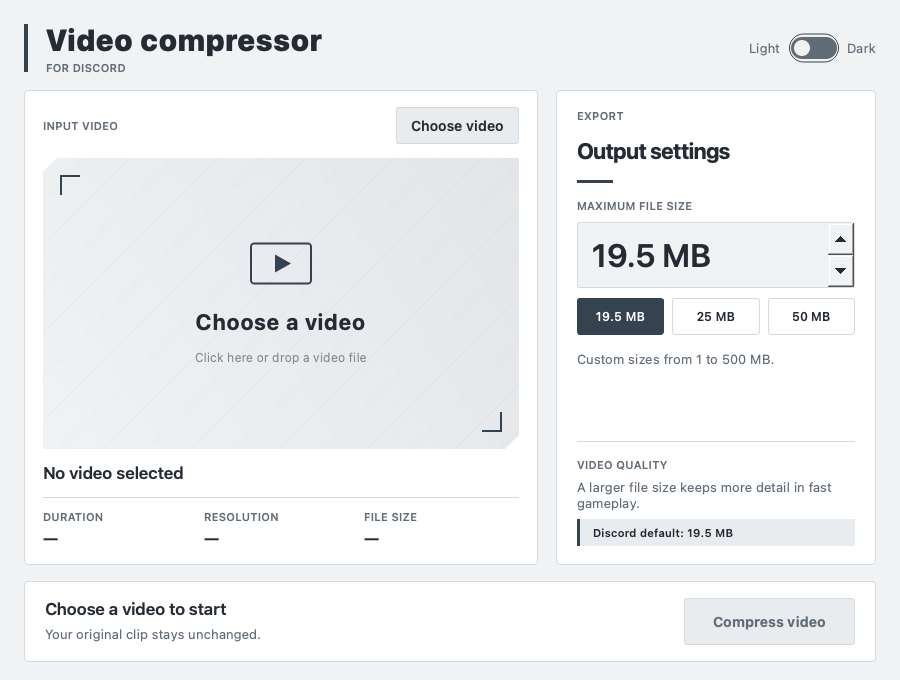
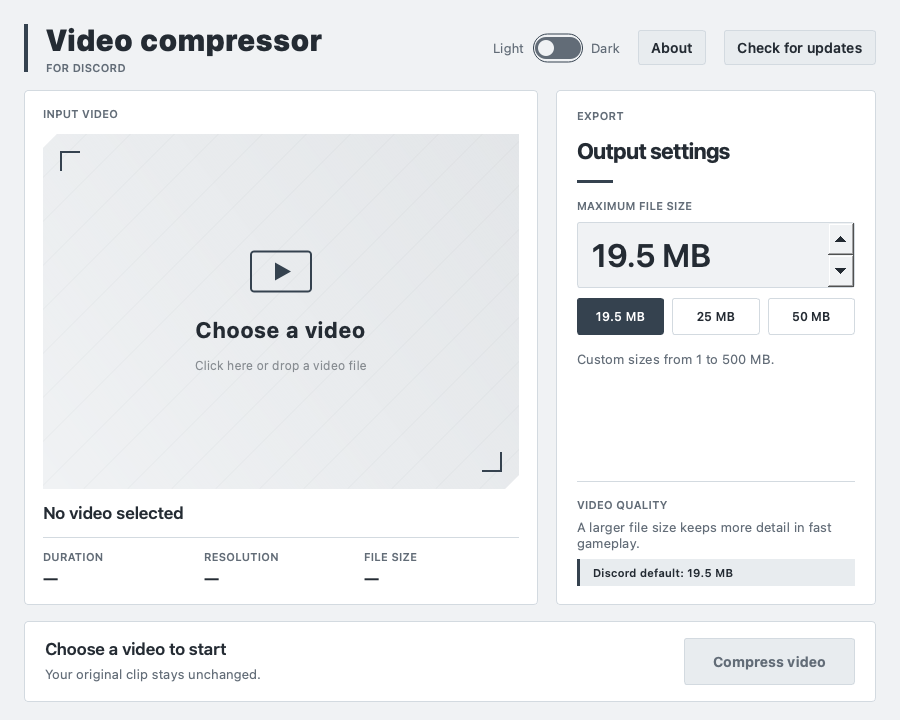
Update website downloads and preview for v0.0.2

diff --git a/site/index.html b/site/index.html
@@ -33,7 +33,7 @@
     <main id="main">
       <section class="hero wrap" aria-labelledby="hero-title">
         <div class="hero-copy">
-          <p class="eyebrow"><span class="status-dot" aria-hidden="true"></span> Free desktop app <span class="version">v0.0.1</span></p>
+          <p class="eyebrow"><span class="status-dot" aria-hidden="true"></span> Free desktop app <span class="version">v0.0.2</span></p>
           <h1 id="hero-title">Video compression<br>for Discord.</h1>
           <p class="intro">Compress your gameplay clips to the size you need, ready to share with your squad.</p>
           <a class="button primary" href="#downloads">Download the app <span aria-hidden="true">↓</span></a>
@@ -45,7 +45,7 @@
         </div>
         <figure class="app-preview">
           <div class="preview-bar"><span class="preview-mark" aria-hidden="true">▶</span><span>Discord Video Compressor</span><span class="preview-label">Frost / White</span></div>
-          <img src="assets/app-preview.png" width="900" height="680" alt="The app in its light theme, with a clickable video area, a 19.5 MB size setting, and a Compress video button." fetchpriority="high">
+          <img src="assets/app-preview.png" width="900" height="720" alt="The app in its light theme, with a clickable video area, a 19.5 MB size setting, and a Compress video button." fetchpriority="high">
           <figcaption><span class="status-dot" aria-hidden="true"></span> Your clips stay on your computer.</figcaption>
         </figure>
       </section>
@@ -61,30 +61,30 @@
               <svg class="platform-icon" viewBox="0 0 24 24" aria-hidden="true"><path d="M2 4.2 10.5 3v8H2zm10-1.4L22 1.4V11H12zM2 12.5h8.5v8L2 19.3zm10 0h10v10.1l-10-1.4z"/></svg>
               <h3>Windows</h3>
             </div>
-            <p class="platform-meta">x64 <span>ZIP · 164 MB</span></p>
+            <p class="platform-meta">x64 <span>ZIP · 168 MB</span></p>
             <p class="install-copy">Extract the ZIP and open <br><code>DiscordVideoCompressor.exe</code>.</p>
-            <a class="button platform-button" href="https://github.com/bharath063/discord-video-compressor/releases/download/v0.0.1/DiscordVideoCompressor-v0.0.1-windows-x64.zip">Download for Windows <span aria-hidden="true">↓</span></a>
+            <a class="button platform-button" href="https://github.com/bharath063/discord-video-compressor/releases/download/v0.0.2/DiscordVideoCompressor-v0.0.2-windows-x64.zip">Download for Windows <span aria-hidden="true">↓</span></a>
           </article>
           <article class="download-card">
             <div class="platform-heading">
               <svg class="platform-icon" viewBox="0 0 24 24" aria-hidden="true"><rect x="2" y="3" width="20" height="14" rx="1.5" fill="none" stroke="currentColor" stroke-width="1.7"/><path d="M8 20h8M12 17v3" fill="none" stroke="currentColor" stroke-width="1.7"/></svg>
               <h3>macOS</h3>
             </div>
-            <p class="platform-meta">Apple Silicon <span>ZIP · 85 MB</span></p>
+            <p class="platform-meta">Apple Silicon <span>ZIP · 86 MB</span></p>
             <p class="install-copy">Extract the ZIP, move the app to <br>Applications, and open it.</p>
-            <a class="button platform-button" href="https://github.com/bharath063/discord-video-compressor/releases/download/v0.0.1/DiscordVideoCompressor-v0.0.1-macos-arm64.zip">Download for macOS <span aria-hidden="true">↓</span></a>
+            <a class="button platform-button" href="https://github.com/bharath063/discord-video-compressor/releases/download/v0.0.2/DiscordVideoCompressor-v0.0.2-macos-arm64.zip">Download for macOS <span aria-hidden="true">↓</span></a>
           </article>
           <article class="download-card">
             <div class="platform-heading">
               <svg class="platform-icon" viewBox="0 0 24 24" aria-hidden="true"><rect x="2" y="3" width="20" height="18" rx="1.5" fill="none" stroke="currentColor" stroke-width="1.7"/><path d="m6 8 4 4-4 4m7 0h5" fill="none" stroke="currentColor" stroke-width="1.7"/></svg>
               <h3>Linux</h3>
             </div>
-            <p class="platform-meta">x64 <span>TAR.GZ · 204 MB</span></p>
+            <p class="platform-meta">x64 <span>TAR.GZ · 205 MB</span></p>
             <p class="install-copy">Extract the archive and run the app. <br>Qt system libraries are required.</p>
-            <a class="button platform-button" href="https://github.com/bharath063/discord-video-compressor/releases/download/v0.0.1/DiscordVideoCompressor-v0.0.1-linux-x64.tar.gz">Download for Linux <span aria-hidden="true">↓</span></a>
+            <a class="button platform-button" href="https://github.com/bharath063/discord-video-compressor/releases/download/v0.0.2/DiscordVideoCompressor-v0.0.2-linux-x64.tar.gz">Download for Linux <span aria-hidden="true">↓</span></a>
           </article>
         </div>
-        <p class="download-note">Python and FFmpeg are included. These downloads are v0.0.1. macOS is not notarized, and Windows has no certificate signature; your system may block the first launch.</p>
+        <p class="download-note">Python and FFmpeg are included. These downloads are v0.0.2. macOS is not notarized, and Windows has no certificate signature; your system may block the first launch.</p>
       </section>
 
       <section class="how-to wrap" aria-labelledby="how-title">
